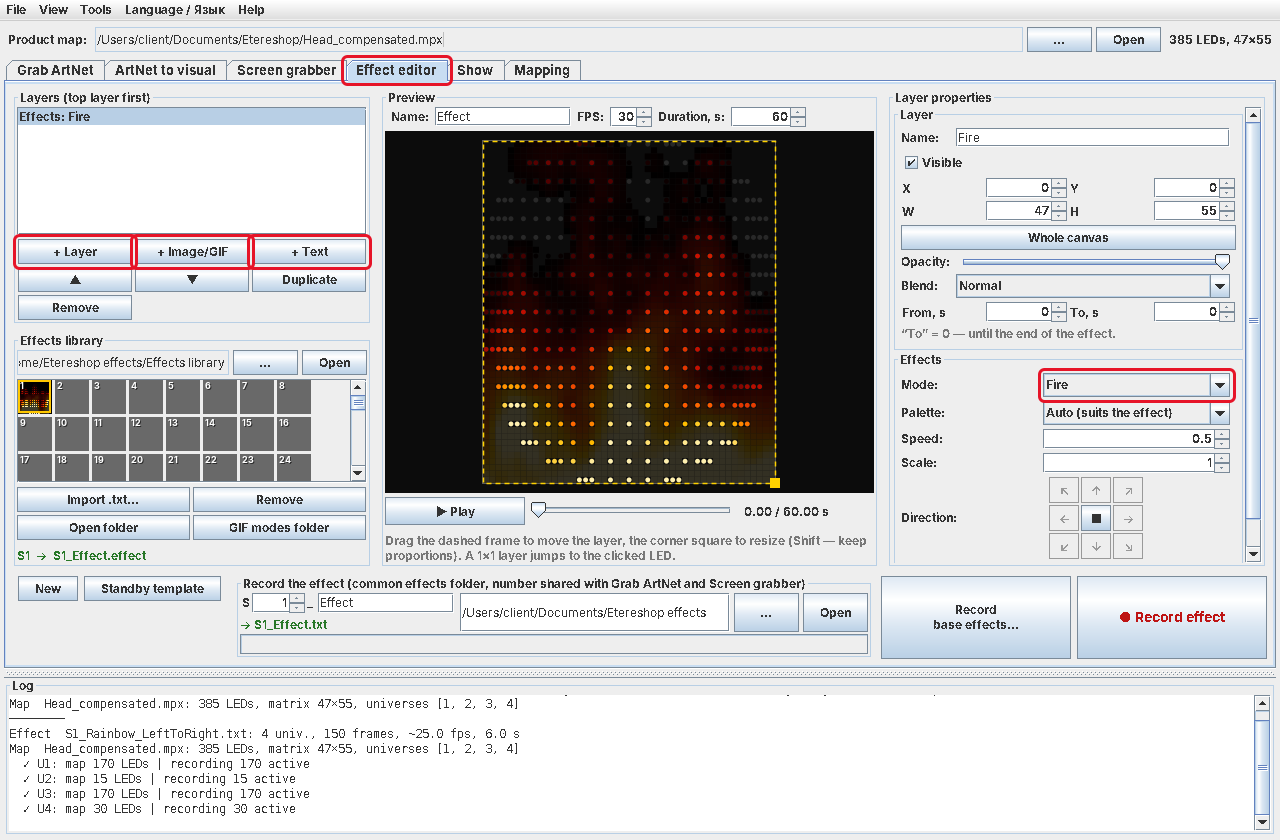
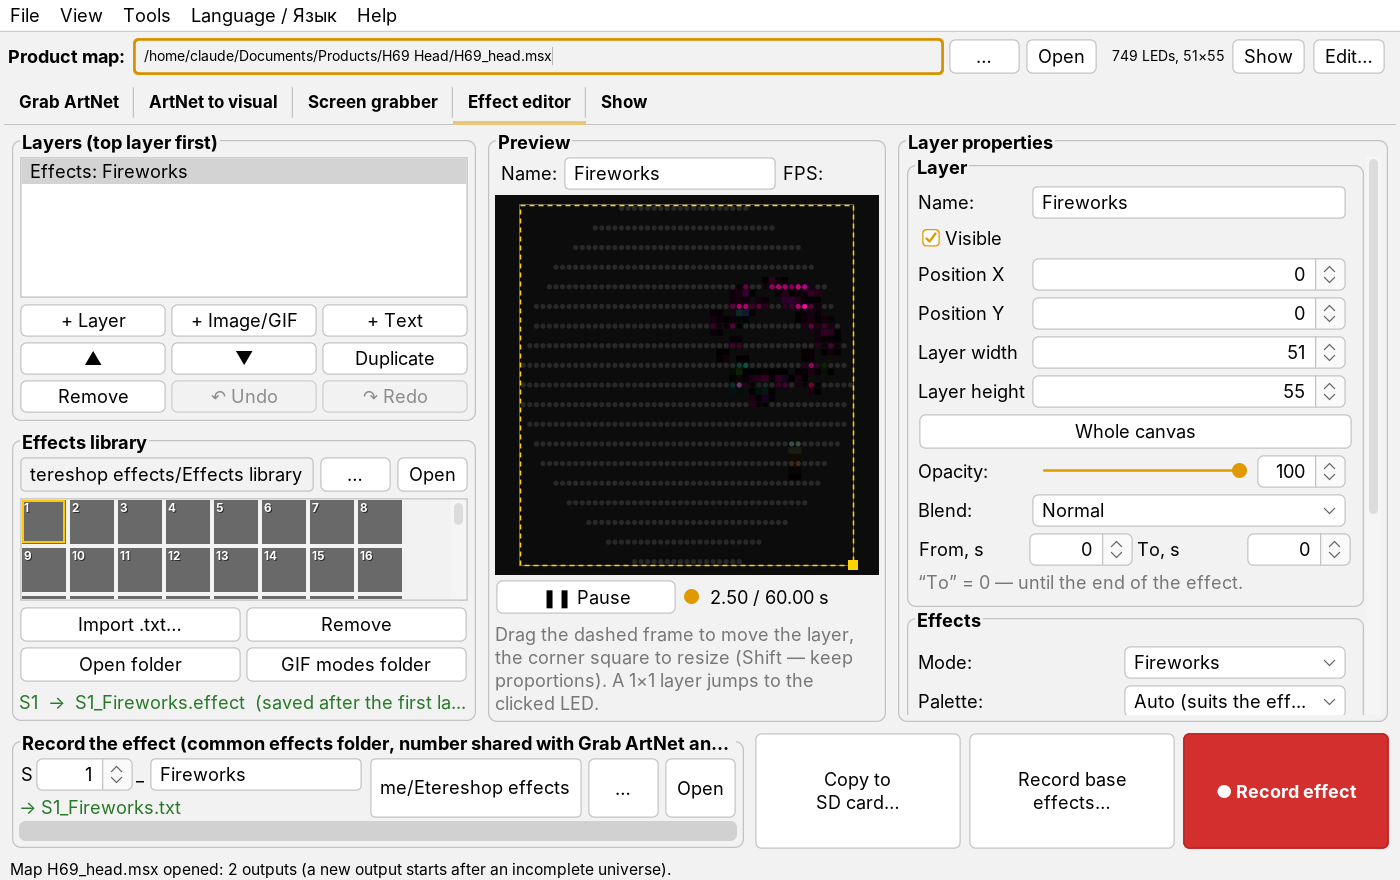
README: 3D tab, copy to SD card, map editor, sliders, theme (4.18)

diff --git a/README.md b/README.md
@@ -22,7 +22,7 @@ Download the archive for your system from the **[latest release](https://github.
 
 1. **Download the archive and unzip it.** This is a portable version: nothing to install, it is ready to use.
 2. **Start the program:** double-click the `.exe` on Windows or the `.command` file on a Mac.
-3. **First of all, load the Madrix project of your product** in the **Product map** field at the top of the window (click **…**). We send this file together with the product (`.msx`, `.mpx` or Patch `.html`). This turns on every function of the program that you will need.
+3. **First of all, load the Madrix project of your product** in the **Product map** field at the top of the window (click **…**), or simply drag the file into the window. We send this file together with the product (`.msx`, `.msz`, `.mpx` or Patch `.html`). This turns on every function of the program that you will need. The program remembers the map; recently used maps are in **File → Recent maps**.
 
 ![Product map field at the top of the window](images/01_product_map.png)
 
@@ -73,6 +73,10 @@ Think of it as a "Madrix lite": you build effects from layers.
 > - check that it fits on the memory card (the dialog shows the estimated size before recording);
 > - **don't set the length of one effect below 15 seconds.** When effects switch very often, the controller reads the memory card all the time, and the card wears out and dies much faster.
 
+**Easier settings (4.18).** Everything that has a range (speed, density, size, opacity, angles…) has a slider with a number field next to it. The layer position and size are called **Position X / Y** and **Layer width / height**. An effect starts playing as soon as you open it; **Space** pauses and resumes (also in **ArtNet to visual**). **↶ / ↷** or **Ctrl+Z / Ctrl+Y** undo and redo.
+
+**Countdown and 3D look.** A Text layer can be a **Countdown** (from / to, minutes:seconds, a template like `New Year in {n}`, final text). Pictures and text can **rotate like a coin** and get **thickness** from copies behind them; pictures can **bounce off the edges**.
+
 ### Show: an effect sequence to music
 Here you can put several effects in sequence to music and record it all as **one effect file**:
 
@@ -83,8 +87,35 @@ Here you can put several effects in sequence to music and record it all as **one
 
 ![Show tab: Open music and Add transition](images/08_show.png)
 
+### 3D: cubes and other volume products
+The **3D** tab appears when the product map has depth, for example an LED cube. Build an effect from 3D layers: plane, sphere, wave, rain, fire, clouds, sparkles, spiral, cube frame, a 3D object from an **OBJ** file (Blender and others, also a numbered series as animation), a picture or GIF as a rotating object, 3D text and countdown. The 3D view on the right can be rotated with the mouse. **● Record effect** writes the effect file for the memory card, the same way as the Effect editor.
+
+![3D tab with layers, the 3D view and layer settings](images/14_3d.png)
+
 ### Several controllers in one product
 If your Madrix project sends data to several IP addresses (for example a costume and a separate head piece), every effect you record is also saved to a separate folder for each controller, named by IP address and number of universes. Copy each folder to the memory card of its controller. Folder names can be changed in developer mode (**Mapping → Controllers (IP)**).
+
+### Copy effects to the memory card
+Press **Copy to SD card…** at the bottom of the **Effect editor** (or **File → Write to SD card…**, **Ctrl+Shift+S**). Insert the controller's card: a disk up to 32 GB is chosen as the card automatically. The program checks the effects against `config.txt` and the map and copies them to the card.
+
+- **`config.txt` on the card is never changed.** It is added only if the card has none.
+- `log.txt` is created if it is missing.
+- With **Back up old effects and config.txt…** ticked (default), the old effects and `config.txt` from the card are saved into a zip in the `SD backups` folder next to your effects before anything is copied.
+- Effects with the same numbers are replaced; the other effects on the card stay.
+
+![Copy to SD card window](images/13_sd_card.png)
+
+### Map editor
+**Tools → Map editor** (or **Edit…** next to the product map) corrects a ready map without Madrix: select LEDs with a click or a frame, move them with the mouse or the arrow keys, rotate by 90°, mirror. Coloured lines with arrows show the wiring order of every output and where it starts. **Reverse order** and **Start here** renumber a segment or a ring; **Add**, **New output** and **Delete** change the LEDs. **Save and use** writes the map (`.msx` keeps the Madrix project) and `config.txt`.
+
+Moving, rotating and changing the order keep the addresses, so recorded effects still fit. After adding or deleting LEDs, record the effects of the changed outputs again.
+
+![Map editor: wiring order with arrows, a selected segment](images/12_map_editor.png)
+
+### Look and handy extras
+- **View → Theme**: light or dark.
+- Drag files into the window: a map, `config.txt` (checked against the map), effects, pictures/GIF, OBJ, music, video.
+- Windows: **Help → Open Madrix maps with this program** adds *Open in Etereshop Effects Recorder* to the right-click menu of map files.
 
 ### Developer mode
 From version 4.15 the window shows only what customers need. The **Mapping** tab, the log and the service tools are hidden until you switch on **Help → Developer mode** (or press **Ctrl+Shift+D**, on a Mac **Cmd+Shift+D**). Switch it off the same way.
